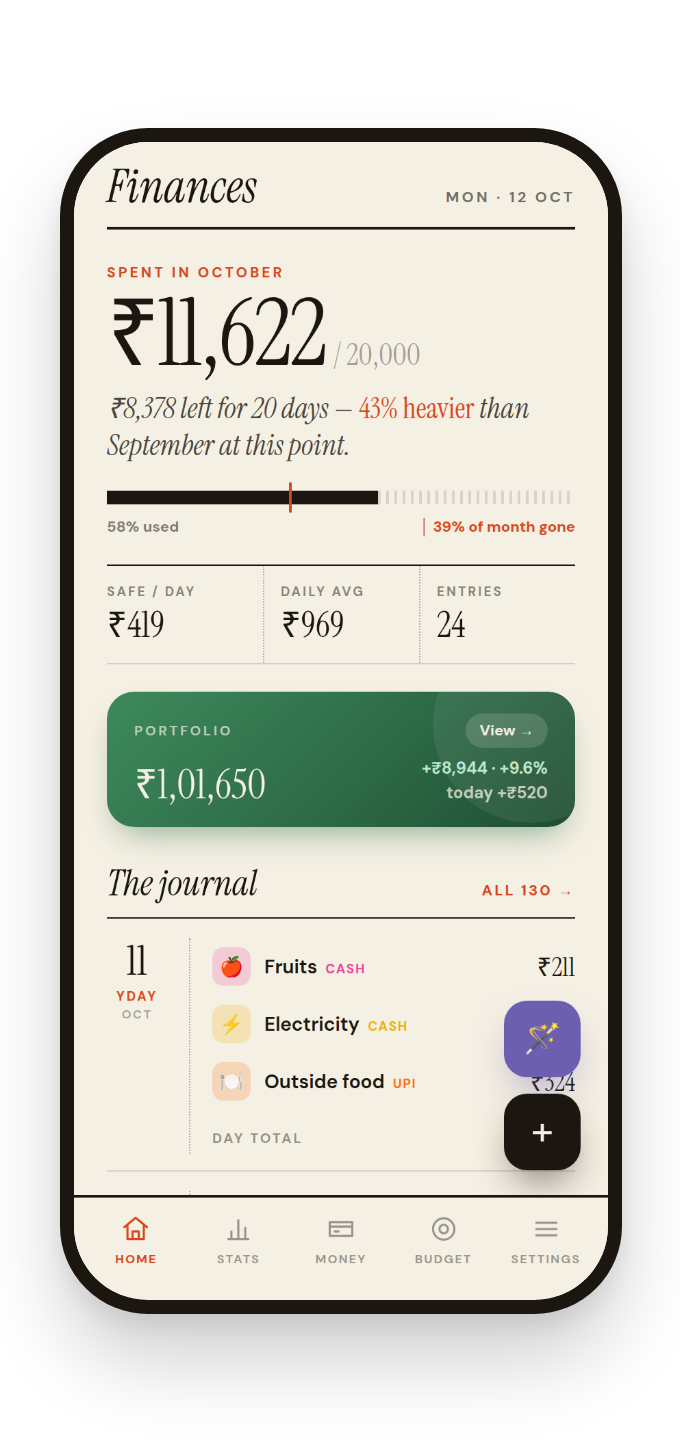
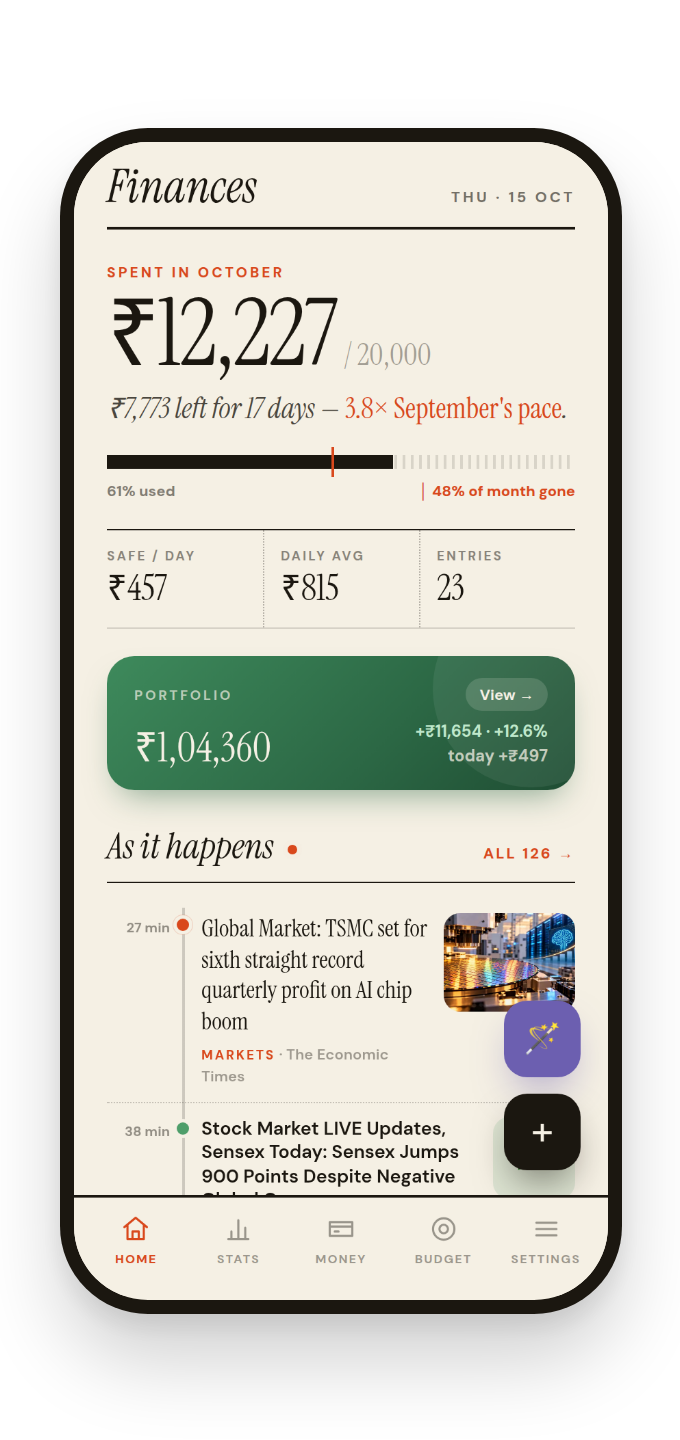
docs: daily news in README and CLAUDE.md; refreshed Home images

Changed region(s): [[0.1544, 0.1875, 0.8647, 0.8438], [0.6485, 0.125, 0.7103, 0.1562], [0.8029, 0.75, 0.8338, 0.7812]]

diff --git a/README.md b/README.md
@@ -28,7 +28,7 @@ An offline-first personal finance app: track spending, budgets, investments, gol
 <div align="center">
 <table>
   <tr>
-    <td align="center"><img src="docs/frames/home.png?v=3" width="215"/><br/><b>Home</b><br/><sub>Budget, journal & portfolio</sub></td>
+    <td align="center"><img src="docs/frames/home.png?v=4" width="215"/><br/><b>Home</b><br/><sub>Budget, journal & portfolio</sub></td>
     <td align="center"><img src="docs/frames/money.png?v=2" width="215"/><br/><b>Net worth</b><br/><sub>Everything you own & owe</sub></td>
     <td align="center"><img src="docs/frames/portfolio.png?v=2" width="215"/><br/><b>Portfolio</b><br/><sub>Live stocks & mutual funds</sub></td>
   </tr>
@@ -126,6 +126,11 @@ One tap on any stock holding produces a full research report — score (0–100)
 - **Numbers stay honest** — every figure is computed on-device and handed to the model as a finished total, so it phrases and explains but never does the math
 - **No API key in the app** — requests go through a Cloudflare Worker proxy; the model provider key lives server-side
 - **Opt-in, on by default** — a data summary leaves the device *only* when you tap Ask or Recap; toggle it off anytime in Settings
+
+### 📰 As it happens (daily news)
+- **Today's news on Home** — the top story from India, World, Markets and Tech on a live timeline, with photos
+- **Full front page** — every story from the last 24 hours, filterable by section, from NDTV, The Times of India, The Hindu, BBC, The Economic Times and Gadgets 360
+- **Light on data** — refreshed at most every 30 minutes, right-sized photos, last batch kept for offline; no photos are stored and news never enters your data or backups
 
 ### 🤝 Lend & borrow
 - **Udhaar ledger** — track who owes you and who you owe, netted per person, with settle-up and history
@@ -230,7 +235,7 @@ scripts/                # dev-only Playwright probes for the stock-analysis pipe
 
 No sign-up. No backend for your data. No telemetry. Your expenses, budgets, balances and PIN live in IndexedDB on your phone.
 
-The app makes network requests in just a few cases: to fetch live investment/metal prices and market news (only when you hold something priced), and — if you use the AI features — to the AI assistant:
+The app makes network requests in just a few cases: to fetch live investment/metal prices and market news (only when you hold something priced), today's headlines for the Home news brief, and — if you use the AI features — to the AI assistant:
 - **Ask Finances / AI Recap** send a summary of your data (aggregates + recent transactions).
 - **Stock analysis** sends public market data for that stock plus your position in it (quantity, average cost, share of portfolio) — nothing about your spending.
 

diff --git a/CLAUDE.md b/CLAUDE.md
@@ -91,6 +91,9 @@ Same rule as the chat: **figures on screen come from `context`, never from the m
 
 `scripts/` holds dev-only Playwright probes: `probe-analysis.mjs <SYMBOL> [name]` prints the full assembled context (no AI), `probe-full.mjs <SYMBOL>` also calls the Worker and prints the raw reply, `shot-analysis.mjs <out.png>` screenshots the rendered report with a stubbed model reply, and `shot-detail.mjs <full.png> [tour.jpg] [frame.png]` captures the holding screen (Reliance, live data) plus the welcome-tour slide and the phone-framed `docs/frames/detail.png`; `shot-home.mjs <tour.jpg> <frame.png>` and `shot-stats.mjs` do the same for Home and Stats → Breakdown with the sample data. Run them from the repo root with `npm run dev` up (playwright must resolve from the project's `node_modules`).
 
+### Daily news (`components/news/` + `pages/News.jsx`)
+Home's "As it happens" timeline (`DailyBrief.jsx`) and the full **News** sub-page (`SUB_PAGES` / `NO_FAB` include `news`). `fetchHeadlines()` in `marketData.js` reads **publisher RSS feeds** (`NEWS_SECTIONS`: NDTV / TOI / The Hindu, BBC World, ET Markets / BBC Business, Gadgets 360 / BBC Tech) — not Google News, whose feed has no images. Stories are tagged by section, kept to the last 24 h, de-duplicated by title, and ordered by each feed's own rank interleaved across sections. `useHeadlines` (`newsShared.jsx`) shows the saved `newsCache` setting at once and **skips the network if it's under 30 min old**. Photos are never stored: `sizedImage` rewrites each publisher's URL to the size shown (BBC `/ace/standard/240|800/`, TOI/ET `/thumb/msid-…,width-…`, The Hindu `SQUARE_320`/`LANDSCAPE_1200`, Gadgets 360 `?downsize=`). **NDTV images 403 off-site and Gadgets 360 PNGs ignore resizing (1 MB+)**, so both are dropped and the row shows a section-coloured tile. Browser preview goes through the whitelisted `/news-feed?u=` proxy in `vite.config.js`.
+
 ### Net worth (`src/utils/networth.js`)
 `computeNetWorth({holdings, prices, assets, udhaar, metalRates})` is the single source of truth. Assets are dynamic-valued: metals by live rate × grams × fineness, FDs by quarterly compounding, loans by amortization — see `assetValue`. A daily net-worth snapshot is written to `networth_snaps` by an effect in `AppContext` (one row per calendar day, keyed by date); the Money tab's trend chart reads these. Snapshotting is skipped while demo data is loaded so it can't pollute real history.
 
